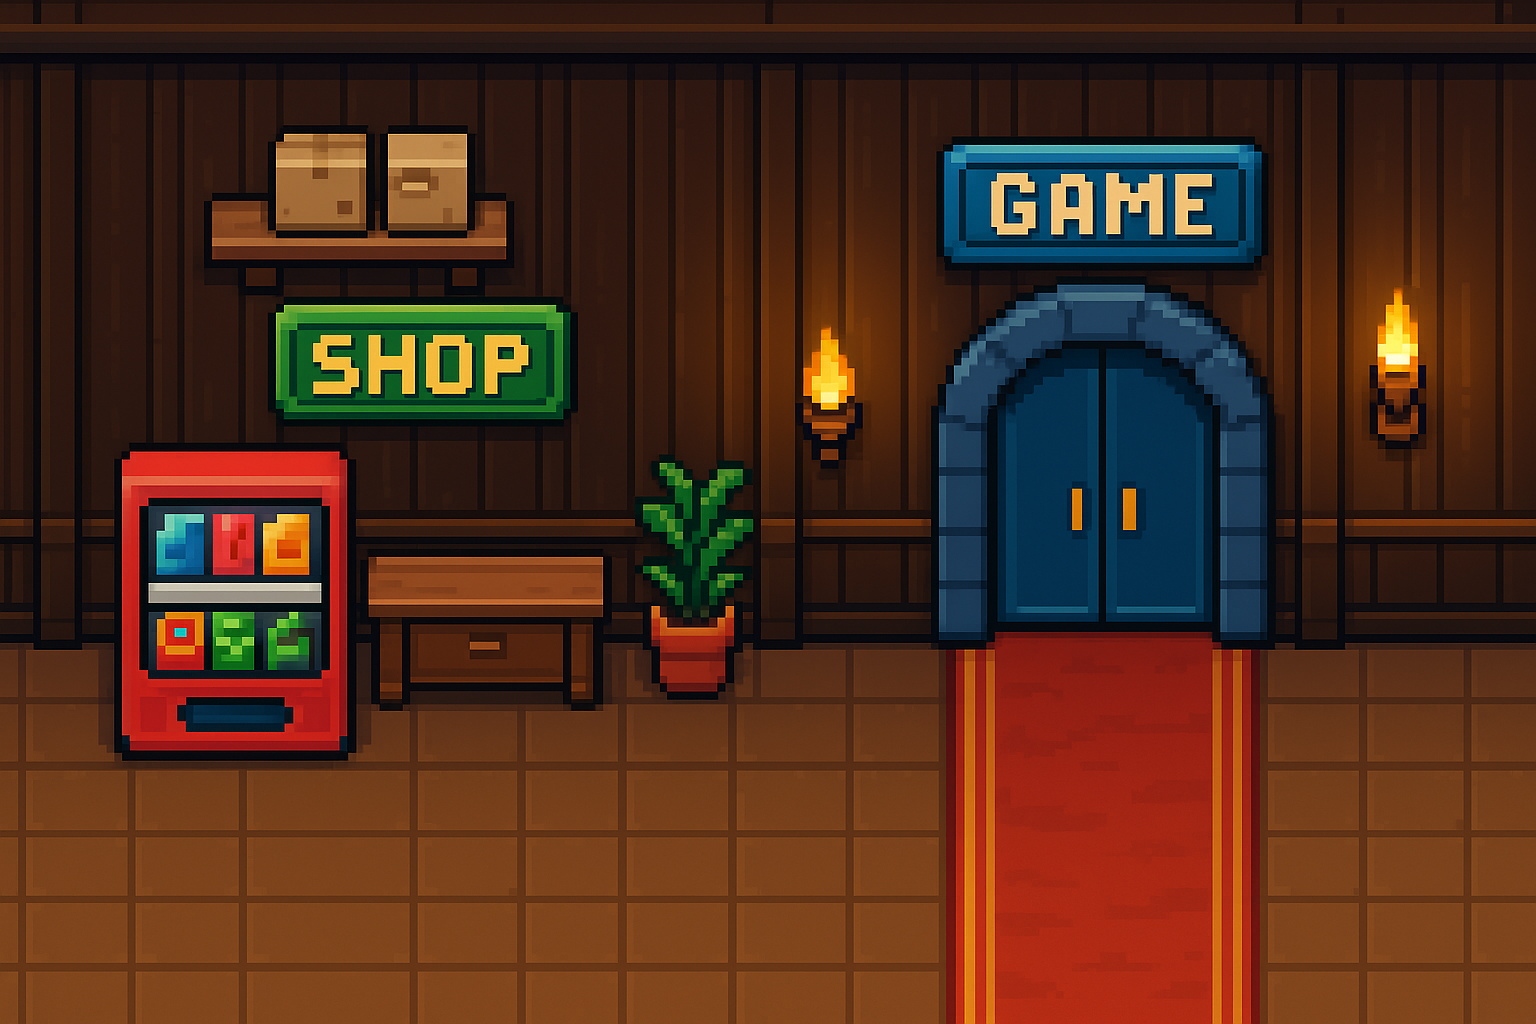
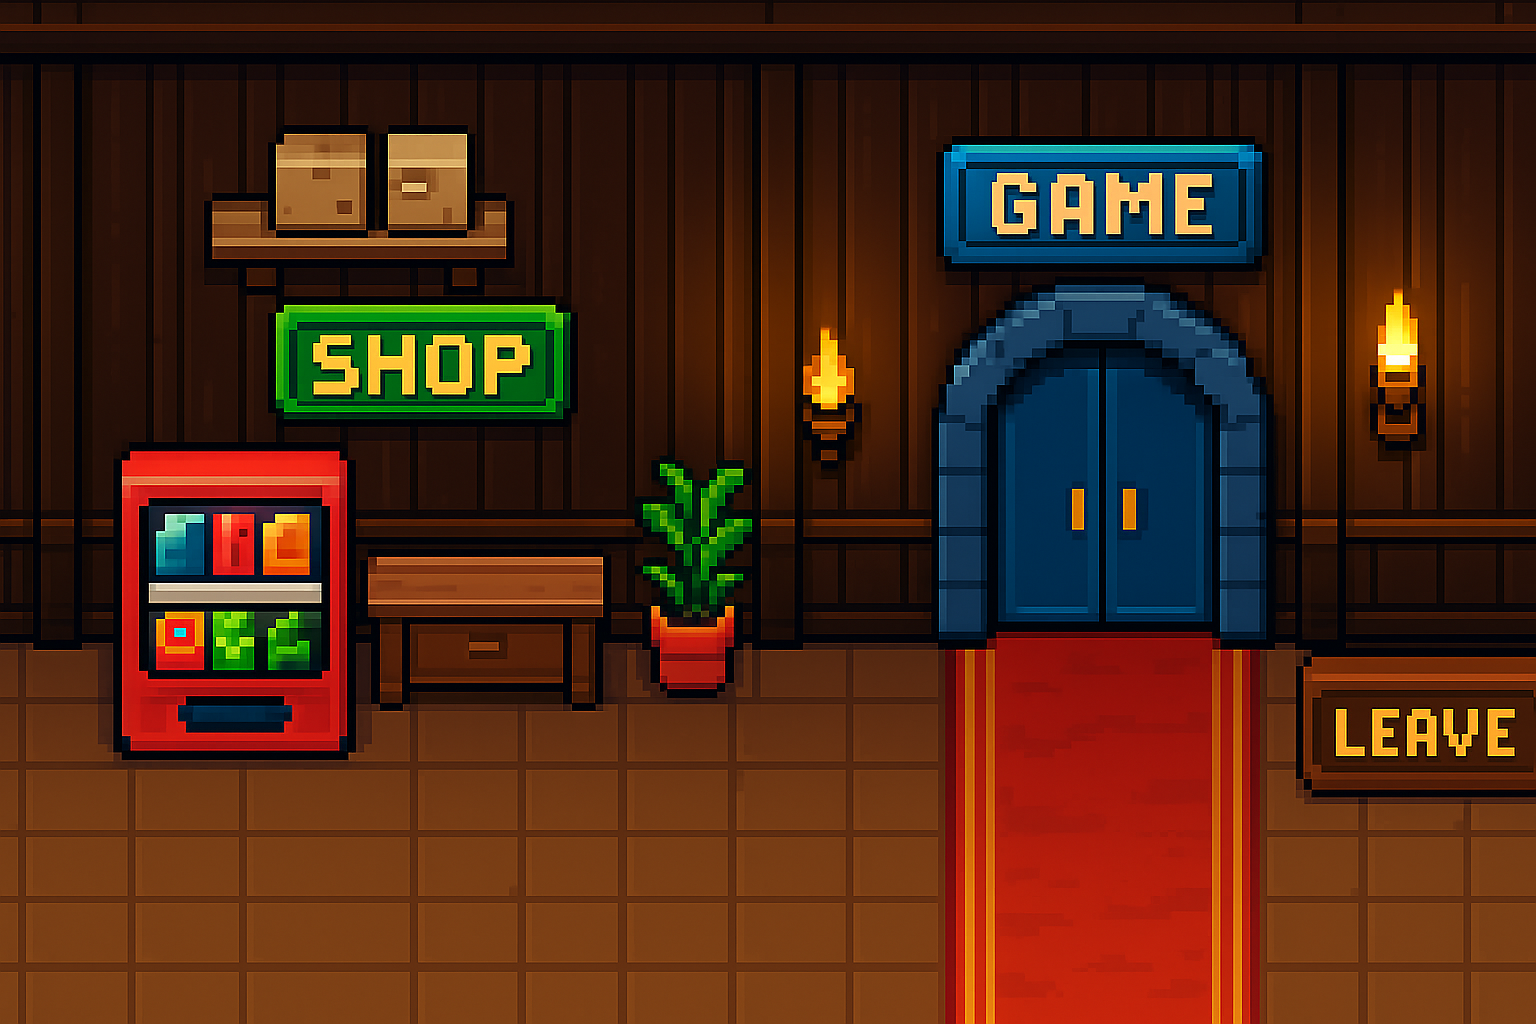
change lobby bg, modified testing code

diff --git a/player.py b/player.py
@@ -25,17 +25,19 @@ class Player:
             "level2":[
 
             ]
+            #"level1":[] 如果有需要的話可以自己打上去
+            #"level3":[]
 
         }
         if self.current_map == "lobby":
             self.trigger_areas = [
                 {"rect": pygame.Rect(60, 405, 110, 50), "message": "Do you want to buy something?", "pos": (20, 150), "target": "shop"},
                 {"rect": pygame.Rect(490, 315, 150, 50), "message": "Play the game NOW!", "pos": (440, 40), "target": "game_map"},
-                {"rect": pygame.Rect(715, 425, 80, 50), "message": "Exit Game?", "pos": (635, 320), "target": "exit"}
+                {"rect": pygame.Rect(655, 425, 200, 50), "message": "Exit Game?", "pos": (635, 320), "target": "exit"}
             ]
         self.current_trigger_info = None
         self.money = 500 # 初始金額
-        
+
         self.max_blood = 100
         self.blood = 100 #初始血量
         self.exp = 0 #初始經驗值

diff --git a/level2/level2_game.py b/level2/level2_game.py
@@ -169,7 +169,7 @@ def update_level2(player, screen):
                 enemy.kill()
                 player.kills += 1
                 if player.kills % 10 == 0:
-                    player.blood = min(player.blood + 20, 100)
+                    player.blood = min(player.blood + 50, player.max_blood)#每擊殺10個敵人回50滴血
                 if random.random() < DROP_CHANCE:
                     # 確保 Item 類別已正確導入，若未導入請加上 import
                     item = Item(enemy.rect.center)

diff --git a/lobby/shop.py b/lobby/shop.py
@@ -108,7 +108,7 @@ def handle_events(event, player):
 
                 elif selected_index == 2:
                     player.exp += 50
-                    player.money += 1000
+                    #player.money += 1000 #需要測試時再取消註解
                     purchase_message = "Bought XP Book: EXP +50"
                 #purchase_message = f"Bought:{item_names[selected_index]}"
             else:

diff --git a/main.py b/main.py
@@ -24,7 +24,7 @@ screen = pygame.display.set_mode((800, 600))
 pygame.display.set_caption("Game Lobby")
 
 # 載入背景圖
-bg_path = os.path.join("assets", "background", "lobby2.png")
+bg_path = os.path.join("assets", "background", "lobby.png")
 background = pygame.image.load(bg_path)
 background = pygame.transform.scale(background, (800, 600))
 
